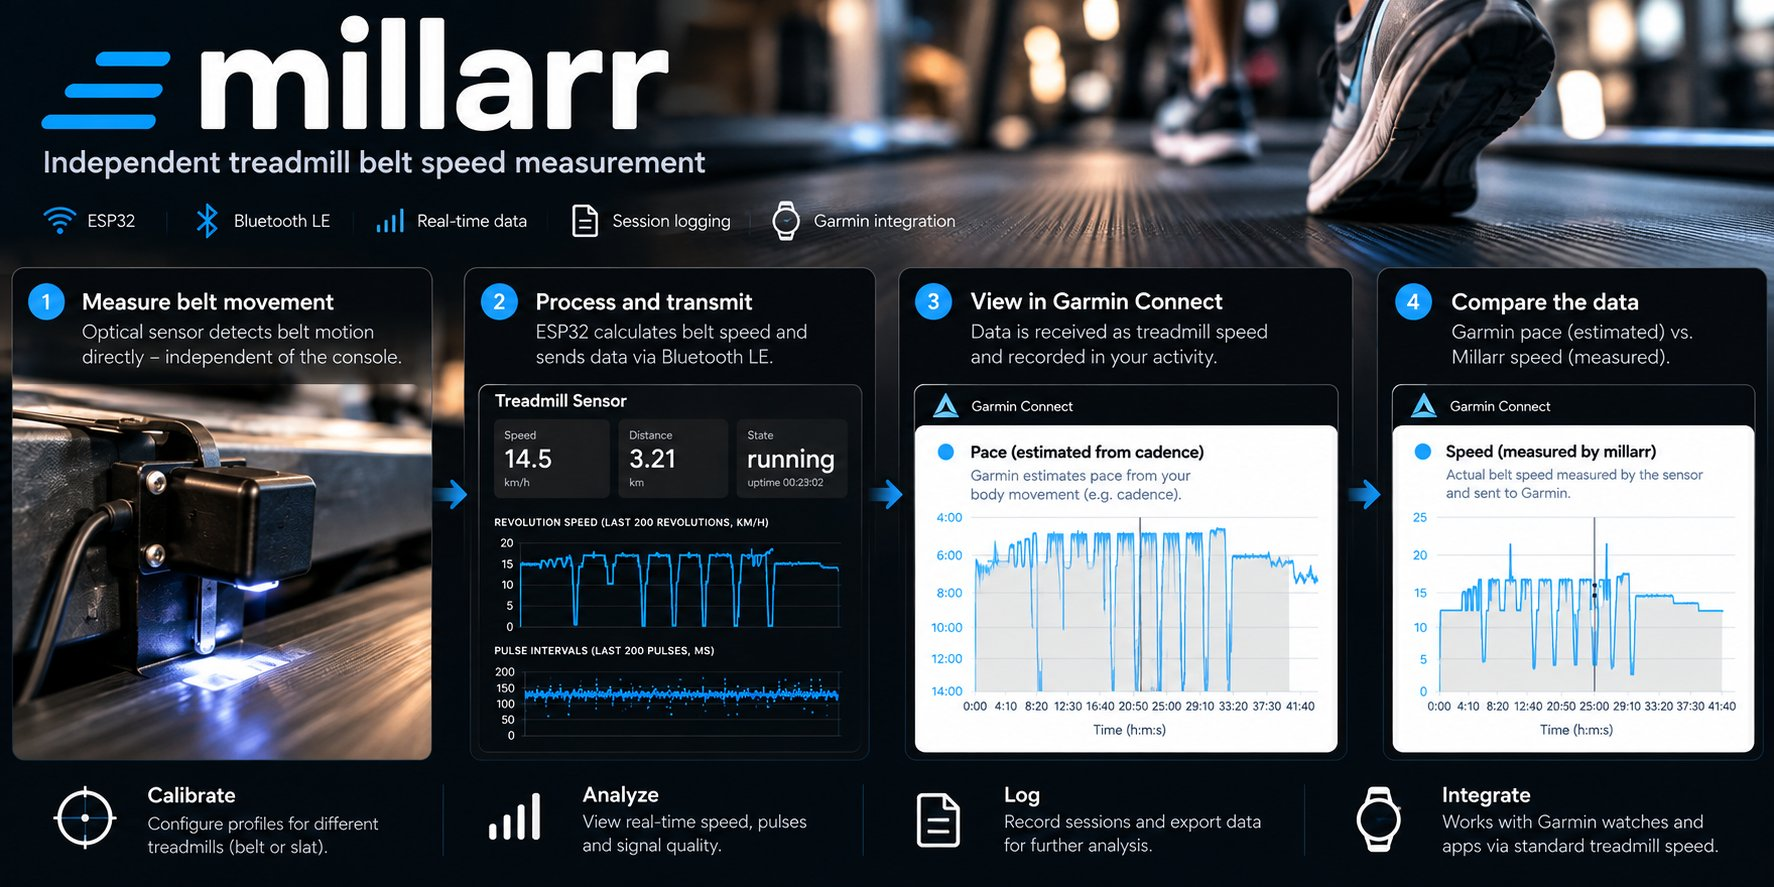
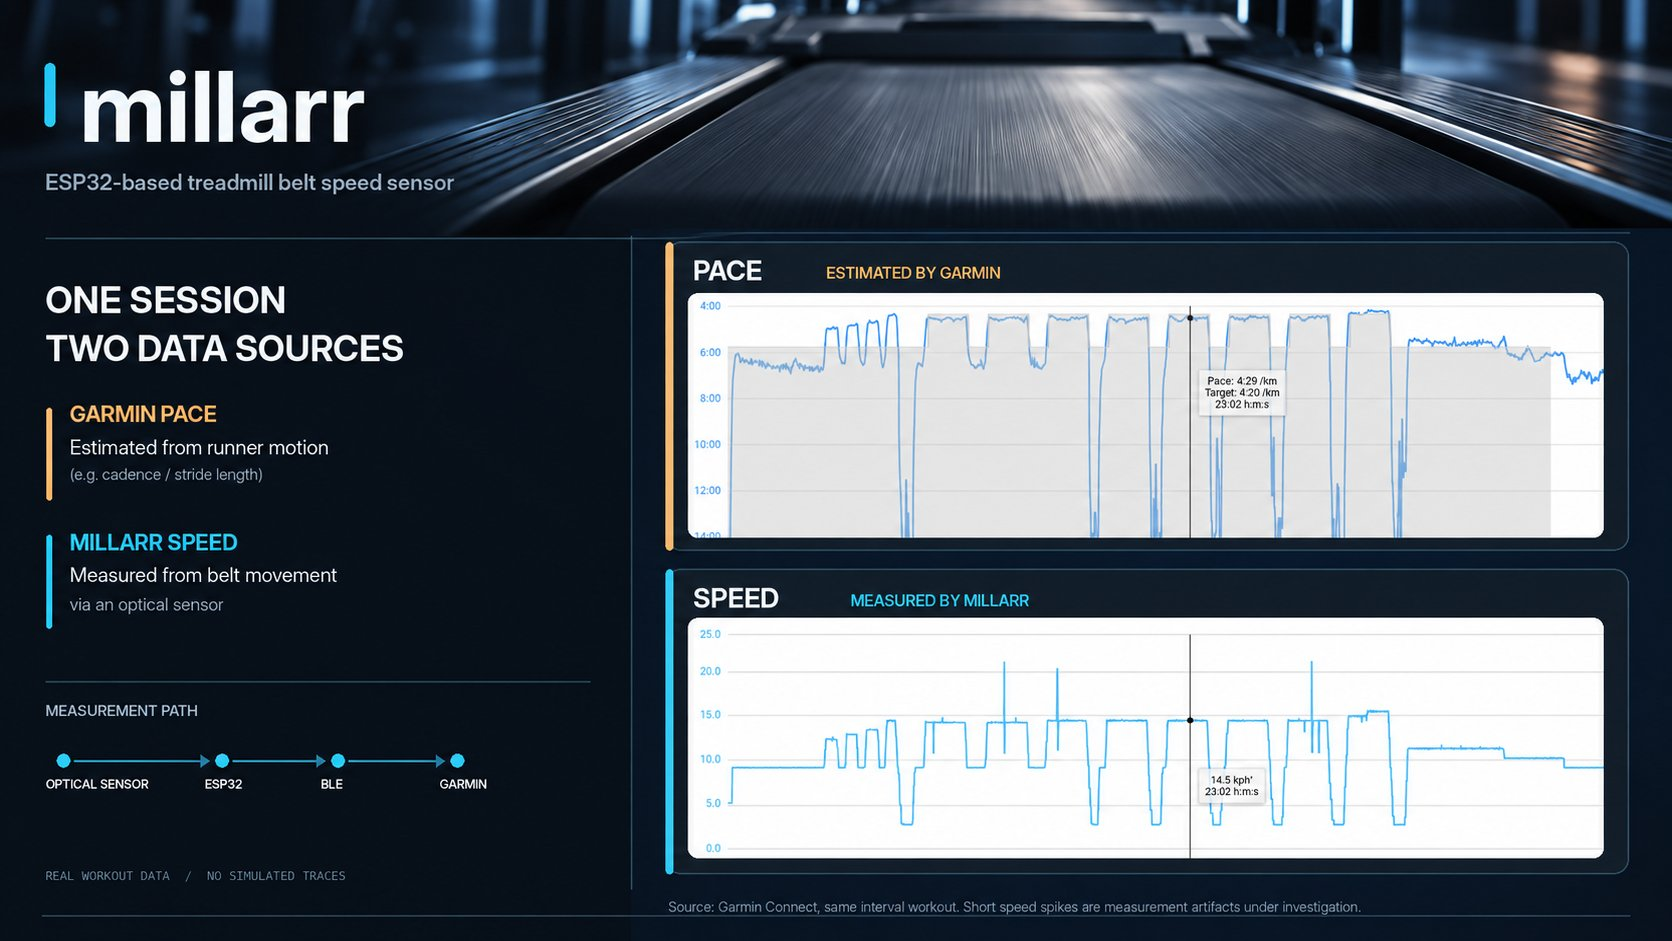
docs(images): hero image now shows the real Garmin data, not a concept mock-up
One session, two data sources: Garmin's estimated pace over millarr's measured
belt speed. The README caption no longer disclaims simulated values, and the
duplicate chart table under "Why" is gone; the full-size charts stay in
docs/garmin.md.

diff --git a/README.md b/README.md
@@ -17,10 +17,11 @@ running data in Garmin Connect.
 The project includes a local web interface for calibration, real-time
 diagnostics, treadmill profiles, and session logging.
 
-![millarr: optical belt sensor, live web dashboard, and measured belt speed next to the watch's estimated pace in Garmin Connect](docs/images/millarr-overview.jpg)
+![One session, two data sources: Garmin's estimated pace above, millarr's measured belt speed below, from the same interval workout in Garmin Connect](docs/images/millarr-overview.jpg)
 
-*Concept illustration. The values in it are not measurements; the Garmin charts
-below are real data from a field run.*
+*Real data from one interval workout in Garmin Connect: the watch's estimated
+pace above, millarr's measured belt speed below. The short speed spikes are
+measurement artifacts under investigation.*
 
 The sensor is self-powered and reads a mark on the belt, so it measures the
 **actual belt movement** rather than the console's setpoint. Over Bluetooth LE it
@@ -34,14 +35,8 @@ A treadmill console may report the commanded speed rather than an independently
 measured belt speed, and calibration drifts from machine to machine. The watch's
 own pace on a treadmill is an estimate from arm and foot motion. millarr gives an
 independent measurement: every belt revolution is timed, recorded and available
-for analysis afterwards.
-
-The same interval session in Garmin Connect, as the watch estimated it and as
-millarr measured it:
-
-| Pace, estimated by the watch and strap | Speed, measured by millarr |
-|---|---|
-| ![Garmin Connect pace chart: estimated pace drifts within each interval and between them](docs/images/garmin-pace-estimated.png) | ![Garmin Connect speed chart: flat, repeatable belt speed steps per interval](docs/images/garmin-speed-measured.png) |
+for analysis afterwards. The charts above come from one such session; the
+full-size versions and how to set up the recording are in `docs/garmin.md`.
 
 ## What it does
 
